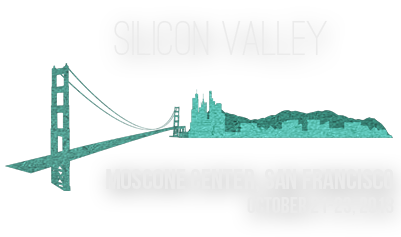
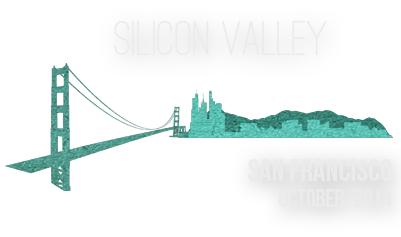
adding japan and adding speakers

Changed region(s): [[0.2993, 0.7384, 0.4788, 0.827], [0.5087, 0.7384, 0.5985, 0.7975]]

diff --git a/index.html b/index.html
@@ -23,7 +23,7 @@
 		<script src="js/html5.js" type="text/javascript"></script>
 	<![endif]-->
 
-	<link rel="Shortcut Icon" type="image/ico" href="http://www.gmic-sv.com/wp-content/themes/gmicsv/images/favicon.ico" />
+	<link rel="Shortcut Icon" type="image/ico" href="http://sv.thegmic.com/wp-content/themes/gmicsv2013-core-test/images/favicon.ico" />
 	
 	<script type="text/javascript">
 
@@ -67,13 +67,30 @@
 
 						
 		<div class="post-content">
-			<p class="clearfix silicon" style="float: left;"><a href="http://beijing.thegmic.com/" target="_blank"><img alt="GMIC Beijing" src="images/channel-02.png" /></a></p>
-<p class="clearfix beijing" style="float: right;"><a href="http://sv.thegmic.com/" target="_blank"><img alt="Silicon Vally" src="images/channel.png" /></a></p>
-<p style="padding: 12px 0 32px 0;color: #e3e3e3; font-size:18px;clear:both; text-align:center;">GMIC brings together the world's emerging epicenters of mobile innovation to discuss the shifts, challenges and future opportunities in the fastest growing markets.</p>
+			<p style="padding: 12px 0 32px 0;color: #e3e3e3; font-size:18px;clear:both; text-align:center;">The annual Global Mobile Internet Conference in Beijing and Silicon Valley, hosts tens of thousands of mobile executives, entrepreneurs, developers, and investors from around the globe and across platforms to build partnerships, to learn from industry thought leaders, to better understand mobile technology trends, and to highlight how mobile is positively changing the world. Hosted and produced by <a href="http://www.gwc.net/"><img src="http://en.gwc.net/wp-content/themes/Mana/images/gwc-logo-white-small-copy.png" /></a>.</p>
+			<table>
+				<tr>
+					<td align="center"><p class="clearfix silicon"><a href="http://beijing.thegmic.com/" target="_blank"><img alt="Beijing" src="images/channel-02.png" /></a></p></td>
+					<td align="center"><p class="clearfix beijing"><a href="http://tokyo.thegmic.com/" target="_blank"><img style="opacity: 0.8;" alt="Tokyo" src="images/channel-03.png" /></a></p></td>
+					<td align="center"><p class="clearfix beijing"><a href="http://sv.thegmic.com/" target="_blank"><img alt="Silicon Vally" src="images/channel.png" /></a></p></td>
+				</tr>
+			</table>
+			
+			
+			
+
 
 <div id="speaker_slider" class="image_carousel">
-	<p>Past Speakers</p>
+	<p>Previous Speakers</p>
 	<ul id="foo1">
+		<li id="speaker13"><a href="#"></a><span>Paul Graham</span><span>Founder, Y-Combinator</span></li>
+		<li id="speaker14"><a href="#"></a><span>Hugo Barra</span><span>Vice President, Xiaomi Global</span></li>
+		<li id="speaker15"><a href="#"></a><span>Andrew Ng</span><span>Co-CEO, Coursera</span></li>
+		<li id="speaker16"><a href="#"></a><span>Pavel Durov</span><span>Founder & CEO, VK & Telegram</span></li>
+		<li id="speaker17"><a href="#"></a><span>Akira Morikawa</span><span>CEO, LINE</span></li>
+		<li id="speaker18"><a href="#"></a><span>Dave McClure</span><span>MP, 500 Startups</span></li>
+		<li id="speaker19"><a href="#"></a><span>Niklas Zennstrom</span><span>Founder, Skype</span></li>
+		<li id="speaker20"><a href="#"></a><span>Yang Yuanqing</span><span>CEO, Lenovo</span></li>
 		<li id="speaker2"><a href="#"></a><span>Osama Bedier</span><span>VP, Google</span></li>
 		<li id="speaker3"><a href="#"></a><span>Charles Chao</span><span>CEO, Sina</span></li>
 		<li id="speaker4"><a href="#"></a><span>Lei Jun</span><span>CEO, Xiaomi</span></li>
@@ -112,18 +129,18 @@
 		</div> <!-- end .footer_wrap -->
 	    </div>
 </body>
-<script type="text/javascript" language="javascript" src="js/jquery.js"></script>
-<script type="text/javascript" language="javascript" src="js/jquery-color.js"></script>
-<script type="text/javascript" language="javascript" src="js/jquery.carouFredSel-5.6.1-packed.js"></script>
+<script type="text/javascript" src="js/jquery.js"></script>
+<script type="text/javascript" src="js/jquery-color.js"></script>
+<script type="text/javascript" src="js/jquery.carouFredSel-5.6.1-packed.js"></script>
 
-<script type="text/javascript" language="javascript">
+<script type="text/javascript">
 			$(function() {
 				$('.post-content p a').hover(
 					function() {
-        $(this).animate({backgroundColor: "rgba(0, 0, 0, 1)"}, 260); //mouseover
+        $(this).animate({backgroundColor: "rgba(0, 0, 0, 0.2)"}, 260); //mouseover
     }, 
     function() {
-        $(this).animate({backgroundColor: "rgba(0, 0, 0, 0)"}, 200); // mouseout
+        $(this).animate({backgroundColor: "rgba(0, 0, 0, 1)"}, 200); // mouseout
     }
 				);
 

diff --git a/css/main-gmic.css b/css/main-gmic.css
@@ -16,24 +16,24 @@ body {background: transparent url(../images/tile.gif) 0 0 repeat;}
 #main-area {background: transparent url(../images/content-bg.jpg) center 0 repeat-y; }
 #content-area {
 	padding: 4px 0 8px 0; 
-	background: transparent url(../images/divider.gif) center 50px no-repeat; 
 	-webkit-box-shadow: 0px -2px 12px rgba(0, 0, 0, 0.5); 
 	-moz-box-shadow: 0px -2px 12px rgba(0, 0, 0, 0.5); 
 	box-shadow: 0px -2px 12px rgba(0, 0, 0, 0.5); 
 }
 
 .post-content p.beijing {padding-top: 0;}
-.post-content p.beijing img {margin:0; margin-top: -5px;}
-.post-content p.beijing {margin:0 10px 0 0;}
-.post-content p.silicon {margin: 0 0 0 10px;}
+.post-content p.beijing img {margin:0; }
+.post-content p.beijing {margin:0 5px 20px 5px;}
+.post-content p.silicon {margin: 0 5px 20px 5px;}
 
 .post-content p.beijing a, .post-content p.silicon a {
 	display: block;
 	-webkit-border-radius: 8px;
 	-moz-border-radius: 8px;
 	border-radius: 8px; 
+	background: rgba(0, 0, 0, 1);
 }
-.post-content p.beijing a {float: right;height:245px;}
+.post-content p.beijing a {float: right;height:167px;}
 
 .footer_wrap { background-color: #fff; padding-top:0; border-top: 1px solid #ccc;}
 #main_footer {width:960px; margin: 0 auto;background-image: none; text-align: center;}
@@ -66,6 +66,14 @@ table, table td {border: none;}
 		#speaker10 a {background-image: url(../images/keynote-speaker-icons_19.png);}
 		#speaker11 a {background-image: url(../images/keynote-speaker-icons_22.png);}
 		#speaker12 a {background-image: url(../images/keynote-speaker-icons_23.png);}
+		#speaker13 a {background-image: url(../images/keynote-speaker-icons_03_09.png);}
+		#speaker14 a {background-image: url(../images/keynote-speaker-icons_03_07.png);}
+		#speaker15 a {background-image: url(../images/keynote-speaker-icons_03_35.png);}
+		#speaker16 a {background-image: url(../images/keynote-speaker-icons_29_21.png);}
+		#speaker17 a {background-image: url(../images/keynote-speaker-icons_03_05.png);}
+		#speaker18 a {background-image: url(../images/keynote-speaker-icons_03_03.png);}
+		#speaker19 a {background-image: url(../images/keynote-speaker-icons_03_33.png);}
+		#speaker20 a {background-image: url(../images/keynote-speaker-icons_03_31.png);}
 	#foo1 a:hover {background-position: 0px -92px;}
 	#foo1 #speaker1 a {}
 	#speaker_slider.image_carousel p { /*color: #5a77b7;*/ color: #fff; margin: 0 auto 10px auto; padding-bottom: 0px;width: 150px; border-bottom: 0px solid #d7e0f3; font-size: 16px;text-align: center;  font-family: "HelveticaNeue57Condensed", "Helvetica Neue Condensed", "Helvetica", sans-serif;}

diff --git a/documents.html b/documents.html
@@ -63,6 +63,52 @@
 						
 		<div class="post-content">
 <table width="620px" border="0" cellspacing="2" cellpadding="2">
+  <caption>Websites</caption>
+  <tbody>
+    <tr>
+      <td align="center">GMIC SV 2013</td>
+      <td>
+      	<p><a target="_blank" href="http://sv.thegmic.com/">English</a></p>
+      </td>
+    </tr>
+    <tr>
+      <td align="center">GMIC Beijing 2013</td>
+      <td>
+      	<p><a target="_blank" href="http://gmic2013.gwc.net/">English</a> <a target="_blank" href="http://gmic2013.gwc.net/cn/ ">Chinese</a></p>
+      </td>
+    </tr>
+    <tr>
+      <td align="center">GMIC SV 2012</td>
+      <td><p><a target="_blank" href="http://sv.thegmic.com/2012/">English</a></p></td>
+   </tr>
+    <tr>
+      <td align="center">GMIC Beijing 2012</td>
+      <td>
+      	<p><a target="_blank" href="http://gmic2012.gwc.net/">English</a> <a target="_blank" href="http://gmic2012.gwc.net/cn/">Chinese</a></p>
+      </td>
+    </tr>
+    <tr>
+      <td align="center">GMIC Beijing 2011</td>
+      <td>
+      	<p><a target="_blank" href="http://gmic2011.gwc.net/">English</a> <a target="_blank" href="http://gmic2011.gwc.net/cn/">Chinese</a></p>
+      </td>
+    </tr>
+    <tr>
+      <td align="center">GMIC Beijing 2010</td>
+      <td>
+      	<p><a target="_blank" href="http://www.gwc.net/GMIC2010/EN_index.html">English</a> <a target="_blank" href="http://www.gwc.net/GMIC2010">Chinese</a></p>
+      </td>
+    </tr>
+    <tr>
+      <td align="center">GMIC Beijing 2009</td>
+      <td>
+      	<p><a target="_blank" href="http://www.gwc.net/GMIC2009/EN_index.html">English</a> <a target="_blank" href="http://www.gwc.net/GMIC2009">Chinese</a></p>
+      </td>
+    </tr>
+  </tbody>
+</table>
+<br /><br />
+<table width="620px" border="0" cellspacing="2" cellpadding="2">
   <caption>
   Marketing Documents
   </caption>
@@ -76,6 +122,7 @@
     <tr>
       <td align="center">Core Documents</td>
       <td>
+      	<p><a href="http://www.thegmic.com/GMIC-Beijing-2014-Sponsorship.pdf">GMIC Beijing 2014 Sponsorship</a></p>
       	<p><a href="http://www.thegmic.com/GMIC-BEIJING-2013-Review.pdf">GMIC Beijing 2013 Review</a></p>
       	<p><a href="https://creative.adobe.com/share/d2f5084d-a73e-410a-acf7-2bd8adcbb296">GWC High-res Logo</a></p>
       	<p><a href="http://www.thegmic.com/GMICSV-2013-Prospectus.pdf">GMIC SV 2013 Prospectus</a></p>
